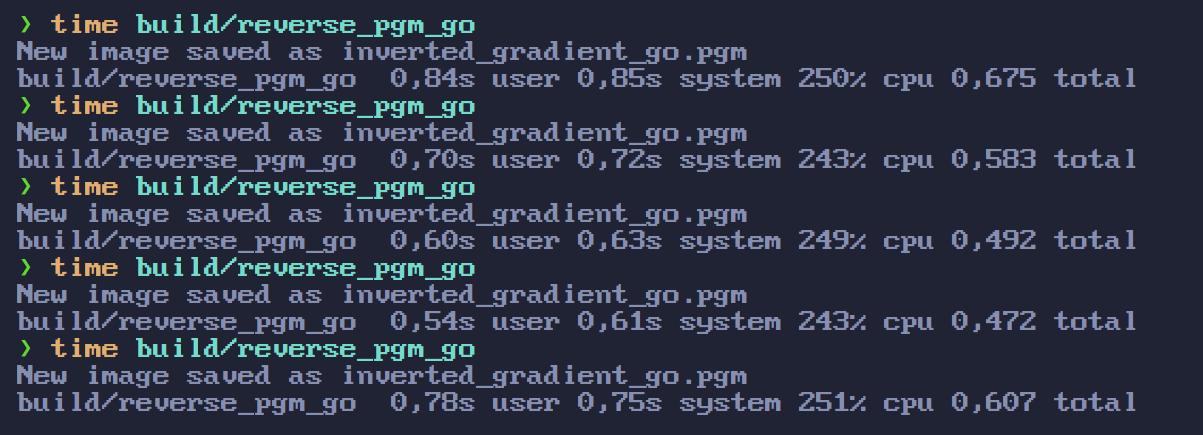
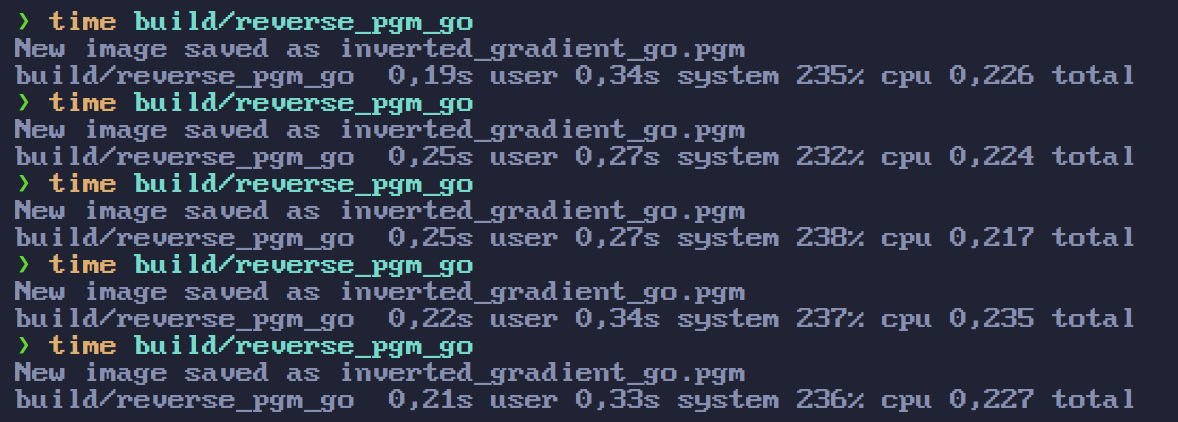
test disabled gc

Changed region(s): [[0.0, 0.0308, 0.9779, 0.9858]]

diff --git a/threads_vs_goroutines/reverse_pgm.go b/threads_vs_goroutines/reverse_pgm.go
@@ -11,6 +11,8 @@ import (
 )
 
 func main() {
+	// debug.SetGCPercent(-1)
+
 	inputFile, _ := os.Open("build/gradient.pgm")
 	defer inputFile.Close()
 

diff --git a/README.md b/README.md
@@ -1,6 +1,6 @@
-# parallelism-concepts
+# Parallelism concepts
 
-This is a summary of the most common parallelism concepts that I know of and serves as a reference guide for me.
+This is a summary of the most common parallelism concepts that I know of and serves as a consolidation of my knowledge about this topic.
 
 ## 
 
@@ -31,6 +31,22 @@ Go results:
 C results:
 ![c results](threads_vs_goroutines/c_results.png)
 
-The C code executes instantly and the Go code takes at least half a second. I couldn't find a way to measure the memory used by each program, but I can infer that Go uses more memory since each Goroutine needs its own stack.
+The C code executes instantly and the Go code takes a little bit of time and more than double of CPU usage. I couldn't find a way to measure the memory used by each program, but I can infer that Go uses more memory since each Goroutine needs its own stack.
 
-Conclusion: For now I cannot think of any situation where it would be desirable to have Goroutines.
+What if you had Coroutines in C?
+
+C Coroutines results:
+![c coroutines results](threads_vs_goroutines/c_coroutine_results.png)
+
+It is still way faster than Go.
+
+Is the garbage collector the cause of sloweness?
+I tried with `debug.SetGCPercent(-1)` to disable it
+but had no difference on performance.
+
+So probably the root cause is the scheduler implementation
+of Go and/or that C compilers have better optimizations.
+
+You can read more about the [Neco scheduler on github](https://github.com/tidwall/neco#the-scheduler) 
+
+Conclusion: For now I cannot think of any situation where it would be desirable to have Goroutines (or Coroutines), and if you want speed, C is the Go to language 😉.
